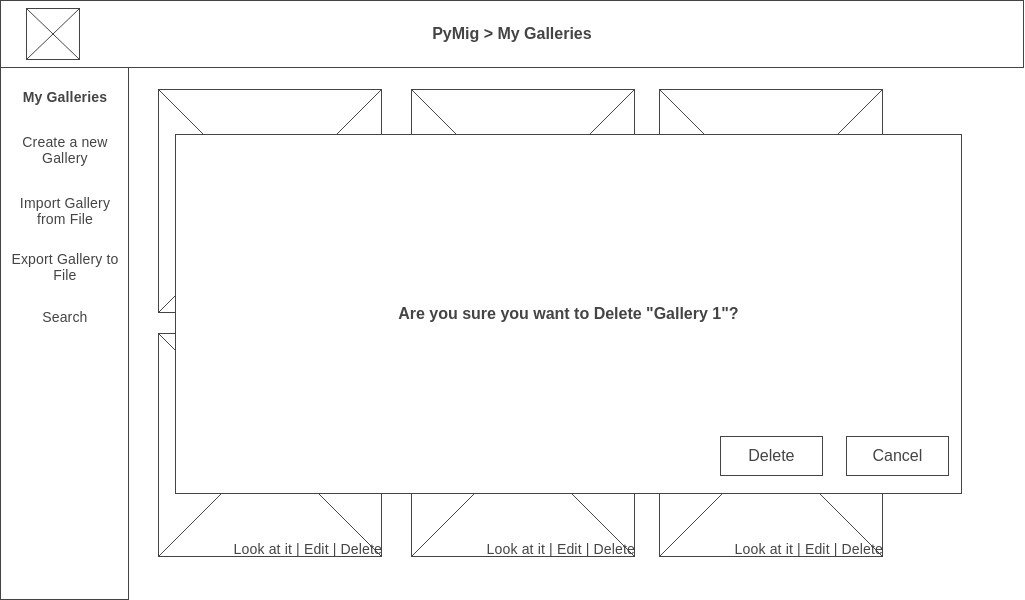
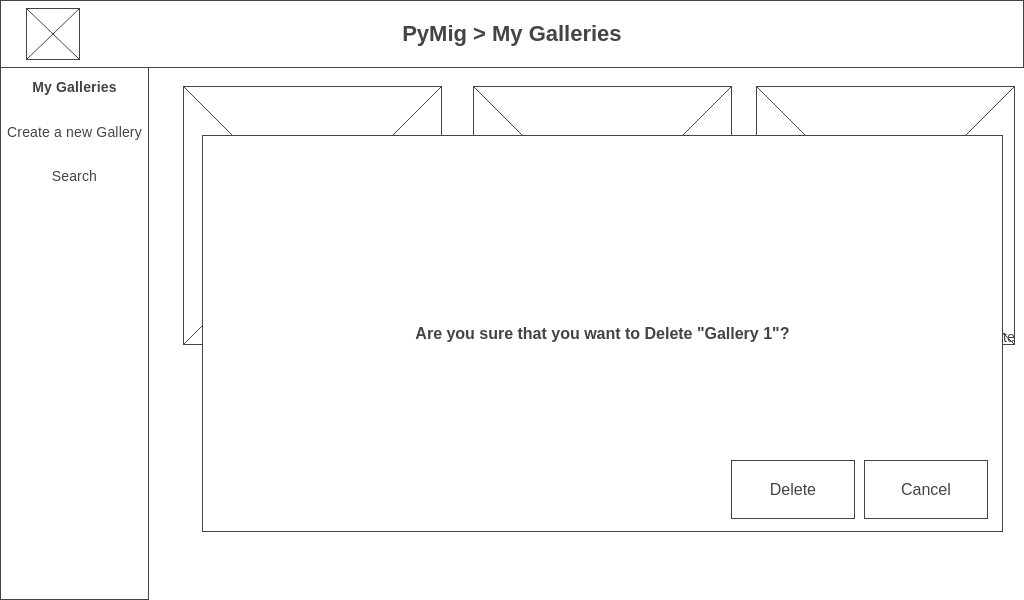
Updated mockups and added diagram for scenarios

diff --git a/README.md b/README.md
@@ -10,8 +10,6 @@ Ich möchte eine Webapplikation entwickeln, welche es einem erlaubt, auf einfach
 - Gallerien editieren
 - Gallerien löschen
 - Gallerien anschauen (Bildervorschau)
-- Gallerie als JSON Datei exportieren
-- Gallerie mit Hilfe von JSON Datei importieren
 - Gallerie liken
 - Nach Gallerien mit Hilfe von Metainformationen wie Titel und Tags suchen
 
@@ -20,8 +18,6 @@ Ich möchte eine Webapplikation entwickeln, welche es einem erlaubt, auf einfach
 - Zu Beginn erstellt der Benutzer Gallerien. Hierzu gibt er der zu erstellenden Gallerie einen Tilte, Bilder sowie Metainformationen (Tags, Like Status)
 - Der Benutzer kann die erstellten Gallerien in einer Übersicht ansehen.
 - Der Benutzer kann die erstellten Gallerien jederzeit editieren oder löschen
-- Der Benutzer kann eine Gallerie an Hand einer JSON Datei importieren
-- Der Benutzer kann eine Gallerie als JSON Datei exportieren
 - Der Benutzer kann jederzeit die Bilder, welche zu einer spezifischen Gallerie gehören anschauen
 - Nach Gallerien kann mit einer Suchfunktion gesucht werden
 
@@ -71,7 +67,7 @@ Als Datenspeicherung wird eine JSON Datei verwendet, diese weisst folgende Struk
 
 ### Datenausgabe
 
-Wie bereits erwähnt kann eine Gallerie als JSON exportiert werden, die Struktur ist identisch mit jener, welche im Kapitel **Datenverarbeitung / Speicherung** erwähnt wurde.
+Wie bereits erwähnt wird die Datenstruktur als JSON Datei abgespeichert, siehe Kapitel **Datenverarbeitung / Speicherung**.
 
 ### Mockups
 
@@ -84,17 +80,15 @@ Beim Löschen einer Gallery wird ein Dialog eingeblendet, welche den Benutzer zu
 ![Ein Blick in eine Gallery](/mockups/3-Look-at-It.png)
 Der Benutzer kann über jederzeit die Bilder, welche einer bestimmten Gallerie zugeordnet sind anschauen. Hierzu klickt er einfach auf "Look at it". Anschliessend werden die Bilder der Gallerie dargestellt.
 
-![Neue Gallerie erstellen](/mockups/4-Create-new-Gallery.png)
+![Neue Gallerie erstellen](/mockups/4-Create-a-new-Gallery.png)
 Auf dieser Ansicht muss der Benutzer alle notwendigen Informationen angeben. Hierzu gehört der Name der Gallery sowie die Tags und der Like Status. Zudem hat der Benutzer die Möglichkeit über ein "Drop-Target" verschiedene Bilder hochzuladen.
 
 ![Bestehende Gallerie editieren](/mockups/5-Edit-Gallery.png)
 Natürlich hat der Benutzer auch die Möglichkeit eine Gallerie zu editieren.
 
-![Eine Gallerie als JSON Datei importieren](/mockups/6-Import-a-Gallery-From-File.png)
-Der Benutzer kann eine Gallerie auch mit Hilfe einer JSON Datei importieren. Hierzu muss er nur die entsprechende JSON Datei auf das "Drop-Target" ziehen. Anschliessend wird die JSON Datei geparst und die Informationen entsprechend ausgefüllt.
+![Suchfunktion](/mockups/6-Search.png)
+Mit Hilfe der Suchfunktion ist es sehr einfach möglich eine gewünschte Gallerie zu finden. Es kann mit Hilfe der hinterlegten Tags gesucht werden. Die Suchresultate können zudem noch nach "Like-Status" gefiltert werden.
 
-![Eine Gallerie als JSON Datei exportieren](/mockups/7-Export-a-Gallery-to-File.png)
-Der Benutzer kann auswählen, welche Gallerie als JSON Datei exportiert werden soll. Es kann nur eine Gallerie auf einmal exportiert werden. Vor dem Export hat der Benutzer die Möglichkeit, die JSON Datei in einem Preview Bereich anzuschauen.
-
-![Suchfunktion](/mockups/8-Search.png)
-Mit Hilfe der Suchfunktion ist es sehr einfach möglich eine gewünschte Gallerie zu finden. Es kann mit Hilfe des Gallerie Titels sowie mit den hinterlegten Tags gesucht werden. Die Suchresultate können zudem noch nach "Like-Status" gefiltert werden.
+### Seitennavigation / Szenarios
+Das untenstehende Ablaufdiagramm soll veranschaulichen, wohin der Benutzer bei bestimmten Interaktionen mit der Webseite gelangt.
+![Szenarios](/scenarios/scenarios.png)
